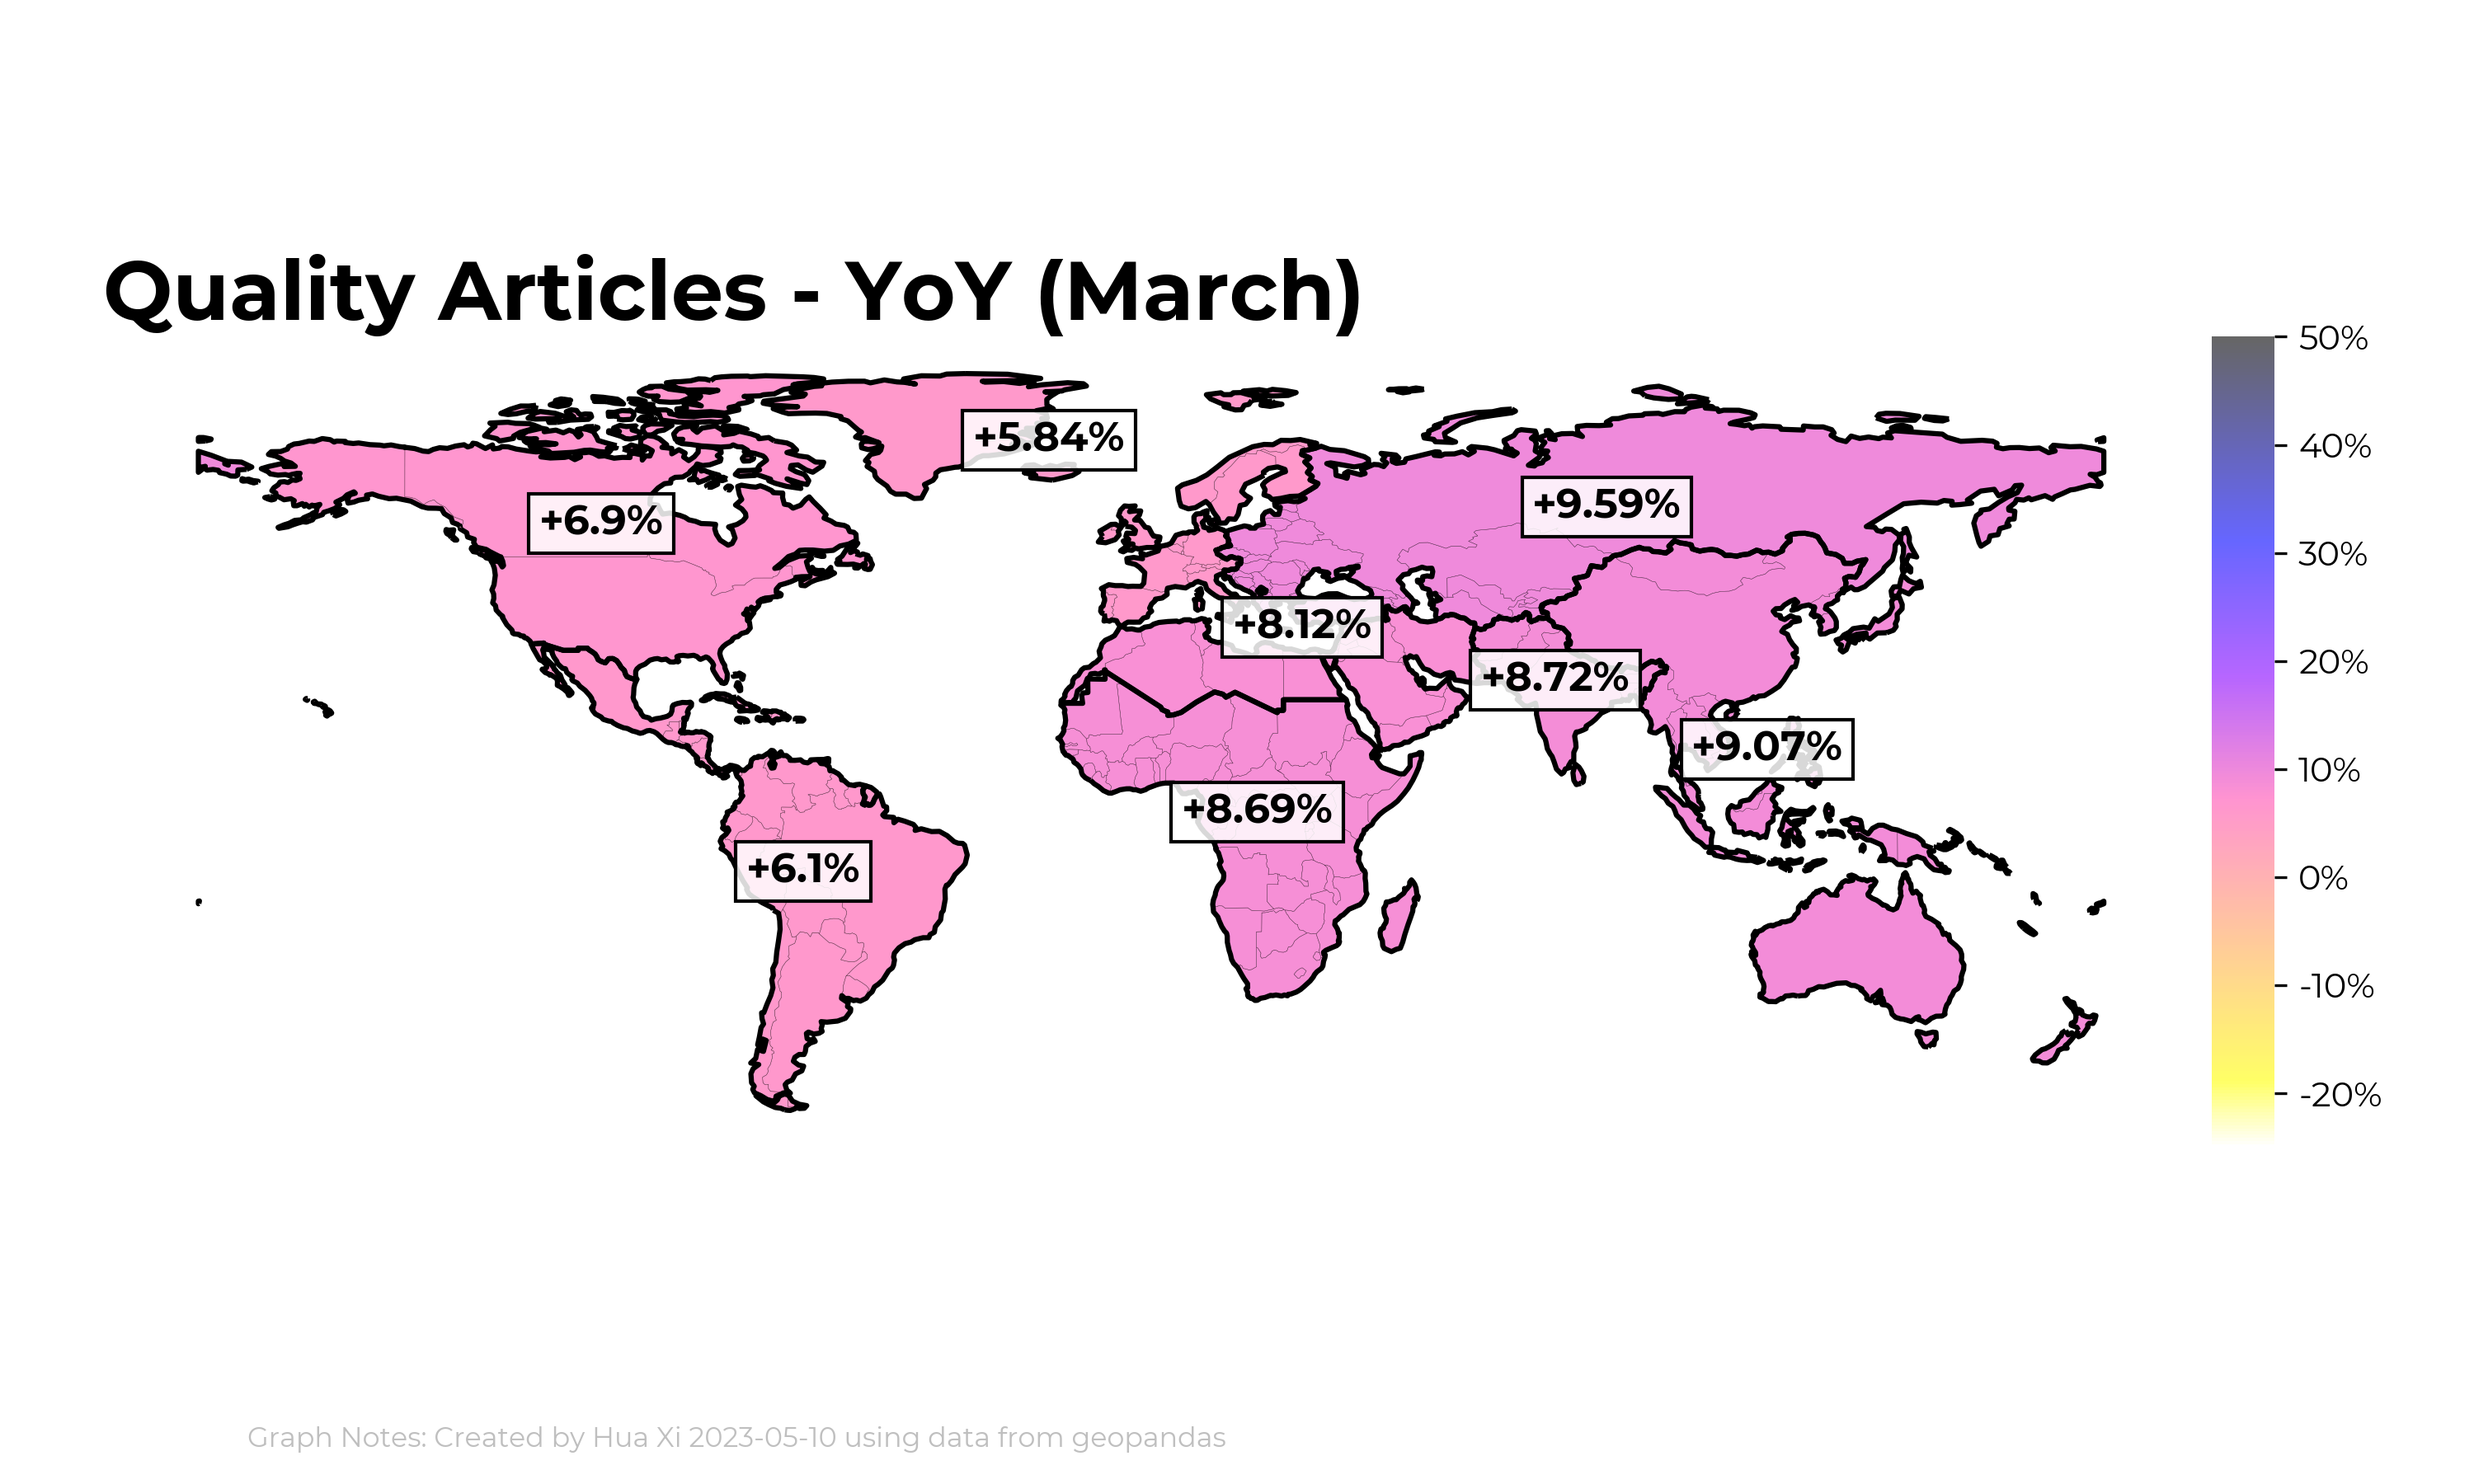
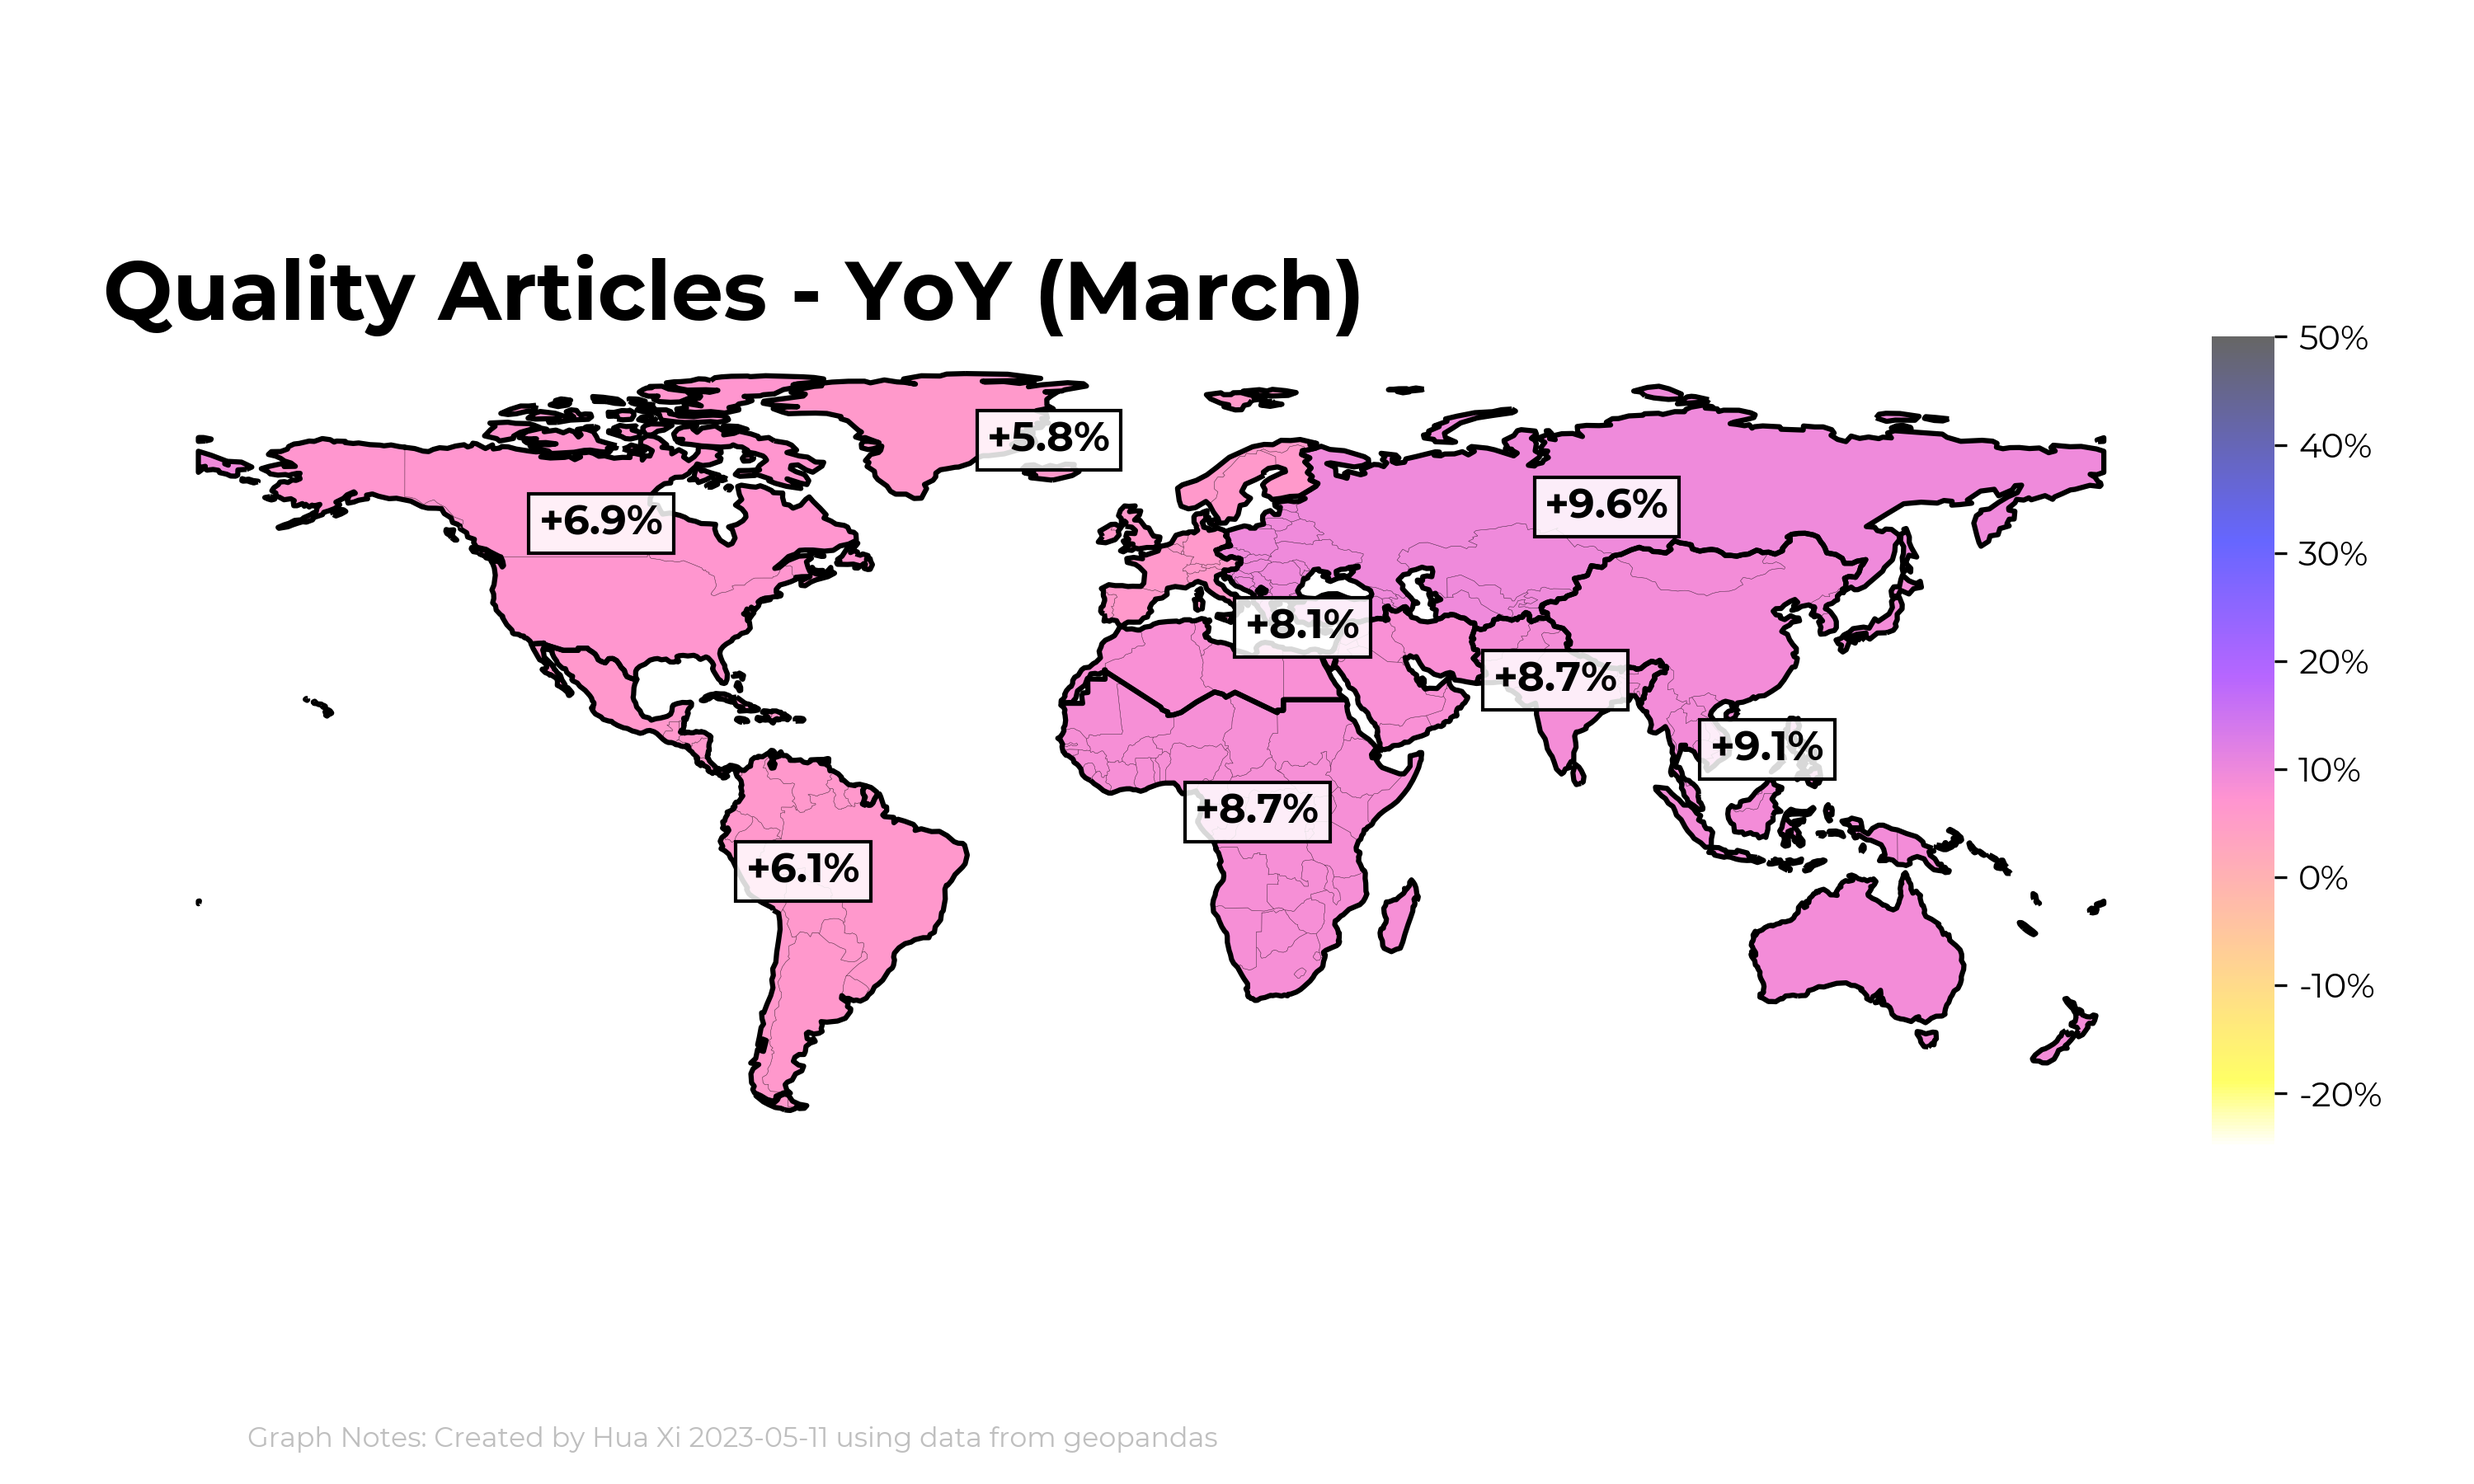
two sig figs

diff --git a/local/individual_chart_scripts/map.py b/local/individual_chart_scripts/map.py
@@ -2,18 +2,17 @@ import pandas as pd
 import datetime
 from datetime import timedelta
 from dateutil.relativedelta import relativedelta
+from math import log10, floor
 import matplotlib.pyplot as plt
 import matplotlib.font_manager
 import numpy as np
 import path
 import getopt
 import geopandas as gpd
-import shapefile as shp
 import shapely
 from shapely.ops import unary_union
 import shapely.ops
 import shapely.geometry
-import seaborn as sns
 import sys
 import os
 from os.path import dirname
@@ -49,10 +48,12 @@ def main(argv):
 	data_directory = dirname(dirname(script_directory))
 	current_month = datetime.datetime.today().month
 	#current_month = 3
+	
 	#---WMF REGION DATA---
 	#need to swap out for google docs version
 	#country code in iso-a3
 	wmf_region_ref = pd.read_csv(data_directory + '/data/wmf_region_ref.csv', sep=',')
+	
 	#---MAP (Borders) AND POPULATION DATA---
 	#country code in alpha-3
 	raw_map_df = gpd.read_file(gpd.datasets.get_path('naturalearth_lowres')) 
@@ -77,13 +78,12 @@ def main(argv):
 	#get representative centroid xys for each region
 	region_table['centroid'] = region_table['geometry'].apply(lambda g: g.centroid)
 	#region_table.to_csv("region_geometries.csv")
+	
 	#---READER DATA---
 	reader_df = pd.read_csv(data_directory + '/data/regional_reader_metrics.csv')
-	#convert to datetime
+	#clean
 	reader_df['month'] = pd.to_datetime(reader_df['month'])
-	#sort by datetime
 	reader_df = reader_df.sort_values(by='month')
-	#drop Unclass and Nan Values
 	reader_df = reader_df[~reader_df.region.isin(['UNCLASSED',np.nan])]
 	#get the last month and get table with just last months values
 	reader_lastmonth = reader_df.iloc[-1]['month'].month
@@ -92,14 +92,13 @@ def main(argv):
 	region_table = region_table.merge(reader_df_lastmonth, how='left', left_on="wmf_region", right_on="region").set_axis(region_table.index)
 	region_table = region_table.rename(columns={"region": "region_name"})
 	region_table = region_table.drop(columns=['month'])
+	
 	#---EDITOR DATA---
 	editor_df = pd.read_csv(data_directory + '/data/regional_editor_metrics.csv')
+	#clean
 	editor_df = editor_df.rename(columns={"sum(editors)": "monthly_editors","wmf_region":"region"})
-	#convert to datetime
 	editor_df['month'] = pd.to_datetime(editor_df['month'])
-	#sort by datetime
 	editor_df = editor_df.sort_values(by='month')
-	#drop UNCLASSED AND NaN cols
 	editor_df = editor_df[~editor_df.region.isin(['UNCLASSED',np.nan])]
 	#get the last month and get table with just last months values
 	editor_lastmonth = editor_df.iloc[-1]['month'].month
@@ -107,16 +106,14 @@ def main(argv):
 	#merge with wmf regions table
 	region_table = region_table.merge(editor_df_lastmonth, how='left', left_on="wmf_region", right_on="region").set_axis(region_table.index)
 	region_table = region_table.drop(columns=['month','region'])
+	
 	#---CONTENT DATA---
 	content_df = pd.read_csv(data_directory + '/data/content_quality.csv')
-	#rename
+	#clean
 	content_df = content_df.rename(columns={"time_bucket":"month"})
 	content_df = content_df.drop(columns=['standard_quality'])
-	#convert to datetime
 	content_df['month'] = pd.to_datetime(content_df['month'])
-	#sort by datetime
 	content_df = content_df.sort_values(by='month')
-	#drop Unclass and Nan Values
 	content_df = content_df[~content_df.region.isin(['UNCLASSED',np.nan])]
 	#get the last month and get table with just last months values
 	content_lastmonth = content_df.iloc[-1]['month'].month
@@ -124,19 +121,38 @@ def main(argv):
 	#merge with wmf regions table
 	region_table = region_table.merge(content_df_lastmonth, how='left', left_on="wmf_region", right_on="region").set_axis(region_table.index)
 	region_table = region_table.drop(columns=['month','region'])
+	
+	#---VALUES---
+	region_table['pop_label'] = region_table['sum_pop_est'].apply(lambda v: simple_num_format(v))
+	region_table['ud_label'] = region_table['unique_devices'].apply(lambda v: simple_num_format(v))
+	region_table['ed_label'] = region_table['monthly_editors'].apply(lambda v: simple_num_format(v))
+	region_table['sqc_label'] = region_table['standard_quality_count'].apply(lambda v: simple_num_format(v))
+
 	#---PERCENT OF TOTAL---
-	def format_perc(x):
-		return "{0:+g}%".format(float("{:.2f}".format(x)))
-	def format_perc_nosign(x):
-		return "{:.2f}%".format(x)
+	def format_perc(x, sig=2, sign=True):
+		#round to two significant digits and add sign and eliminate trailing zeroes
+		if sign:
+			rounded = "{0:+.2g}".format(round(x, sig-int(floor(log10(abs(x))))-1))
+			#add in trailing zero if single digit number and add in percentage sign
+			if len(rounded) == 2:
+				return rounded + ".0%"
+			else:
+				return rounded + "%"
+		else:
+			rounded = "{0:.2g}".format(round(x, sig-int(floor(log10(abs(x))))-1))
+			if len(rounded) == 1:
+				return rounded + ".0%"
+			else:
+				return rounded + "%"
 	region_table['pop_perc'] = (region_table['sum_pop_est'] / region_table['sum_pop_est'].sum()) * 100
-	region_table['pop_perc_label'] = region_table["pop_perc"].map(format_perc_nosign)
+	region_table['pop_perc_label'] = region_table["pop_perc"].apply(format_perc, sign = False)
 	region_table['ud_perc'] = ((region_table['unique_devices'] / region_table['unique_devices'].sum()) * 100)
-	region_table['ud_perc_label'] = region_table['ud_perc'].map(format_perc_nosign)
+	region_table['ud_perc_label'] = region_table['ud_perc'].apply(format_perc, sign = False)
 	region_table['ed_perc'] = ((region_table['monthly_editors'] / region_table['monthly_editors'].sum()) * 100)
-	region_table['ed_perc_label'] = region_table['ed_perc'].map(format_perc_nosign)
+	region_table['ed_perc_label'] = region_table['ed_perc'].apply(format_perc, sign = False)
 	region_table['sqc_perc'] = ((region_table['standard_quality_count'] / region_table['standard_quality_count'].sum()) * 100)
-	region_table['sqc_perc_label'] = region_table['sqc_perc'].map(format_perc_nosign)
+	region_table['sqc_perc_label'] = region_table['sqc_perc'].apply(format_perc, sign = False)
+	
 	#---CHANGE OVER TIME---
 	def change_over_time(var, change_var_name, data_df, region_table_local, days_delta = 0, months_delta=0, years_delta = 0):
 		#get data for last month
@@ -178,10 +194,12 @@ def main(argv):
 	region_table = change_over_time("value", "ud_3morolling_yoy", reader_rolling3mo, region_table, years_delta=1)
 	#editor
 	region_table = change_over_time("value", "ed_3morolling_yoy", editor_rolling3mo, region_table, years_delta=1)
+	
 	#---REMERGE W MAP_DF
 	#merge pivot table with map data again — for generating colorbar
 	#need to drop the geometry data from region_table or you will end up with a regular dataframe instead of a geoseries dataframe
 	map_df = map_df.merge(region_table.drop(columns=['geometry','centroid']), how='left', left_on="wmf_region", right_on="wmf_region")
+	
 	#---ADDITIONAL LABELS---
 	#manually adjust positions (very complicated to do programmatically in matplotlib and not necessary)
 	region_table["region_label_positions"] = region_table['centroid']
@@ -189,12 +207,7 @@ def main(argv):
 	region_table.at['Middle East & North Africa','centroid'] = shapely.Point(mena.x,mena.y + 8)
 	nwe = region_table.at['Northern & Western Europe','centroid']
 	region_table.at['Northern & Western Europe','centroid'] = shapely.Point(nwe.x,nwe.y + 5)
-	#absolute value labels
-	region_table['pop_label'] = region_table['sum_pop_est'].apply(lambda v: simple_num_format(v))
-	region_table['ud_label'] = region_table['unique_devices'].apply(lambda v: simple_num_format(v))
-	region_table['ed_label'] = region_table['monthly_editors'].apply(lambda v: simple_num_format(v))
-	region_table['sqc_label'] = region_table['standard_quality_count'].apply(lambda v: simple_num_format(v))
-	
+		
 
 	#---MAKE CHART---
 	#---LABELS---
@@ -271,7 +284,7 @@ def main(argv):
 	chart.finalize_plot(save_file_name,display=True)
 
 	#---EDITOR METRICS - EDITORS YOY of 3MO ROLLING Average---
-	chart = Wikimap(map_df, fignum=6, title = 'Active Monthly Editors - YoY Change of 3 Month Rolling Average', data_source="geopandas", month=reader_lastmonth)
+	chart = Wikimap(map_df, fignum=6, title = 'Active Monthly Editors - YoY Change of 3 Month Rolling Average', data_source="geopandas", month=editor_lastmonth)
 	chart.plot_wcolorbar(col = 'ed_3morolling_yoy', setperc=True)
 	chart.plot_regions(region_table,'ed_3morolling_yoy_label')
 	chart.format_map(cbar_perc=True)
@@ -288,7 +301,7 @@ def main(argv):
 	chart.finalize_plot(save_file_name,display=True)
 	'''
 	#---CONTENT METRICS - COUNT---
-	chart = Wikimap(map_df, fignum=10, title = 'Quality Articles', data_source="geopandas", month=reader_lastmonth)
+	chart = Wikimap(map_df, fignum=10, title = 'Quality Articles', data_source="geopandas", month=content_lastmonth)
 	chart.plot_wcolorbar(col = 'standard_quality_count')
 	chart.plot_regions(region_table,'sqc_label')
 	chart.format_map()
@@ -296,7 +309,7 @@ def main(argv):
 	chart.finalize_plot(save_file_name,display=True)
 
 	#---CONTENT METRICS - PERCENT TOTAL---
-	chart = Wikimap(map_df, fignum=11, title = 'Quality Articles - Percent of Total', data_source="geopandas", month=reader_lastmonth)
+	chart = Wikimap(map_df, fignum=11, title = 'Quality Articles - Percent of Total', data_source="geopandas", month=content_lastmonth)
 	chart.plot_wcolorbar(col = 'sqc_perc', setperc=True)
 	chart.plot_regions(region_table,'sqc_perc_label')
 	chart.format_map(cbar_perc=True)
@@ -304,7 +317,7 @@ def main(argv):
 	chart.finalize_plot(save_file_name,display=True)
 
 	#---CONTENT METRICS - YOY of 3MO ROLLING Average---
-	chart = Wikimap(map_df, fignum=12, title = 'Quality Articles - YoY', data_source="geopandas", month=reader_lastmonth)
+	chart = Wikimap(map_df, fignum=12, title = 'Quality Articles - YoY', data_source="geopandas", month=content_lastmonth)
 	chart.plot_wcolorbar(col = 'sqc_yoy', setperc=True)
 	chart.plot_regions(region_table, 'sqc_yoy_label')
 	chart.format_map(cbar_perc=True)

diff --git a/local/wikicharts.py b/local/wikicharts.py
@@ -608,25 +608,6 @@ class Wikichart:
 		maxrange_numticks = self.ynumticks[maxrange_index]
 		return maxrange, maxrange_numticks
 
-	def expand_yrange(self):
-		'''
-		print("initial yrange " + str(axis.get_ylim()))
-		print("initial tick num " + str(len(axis.get_yticklabels())))
-		current_ticks = axis.get_yticklabels()
-		current_tick_range = current_ticks[-1].get_position()[1] - current_ticks[0].get_position()[1]
-		print("initial tick range " + str(current_tick_range))
-		#expands the axis limits via the 2/3rds rule
-		#expanding the ylim via set_ylim will recalibrate ticks automatically
-		current_ylim = axis.get_ylim()
-		current_ylim_range = current_ylim[1] - current_ylim[0]
-		print(current_ylim_range)
-		current_ticknum = len(axis.get_yticklabels())
-		new_ymin = current_ylim[0] - current_ylim_range / 4
-		new_ymax = current_ylim[1] + current_ylim_range / 4
-		axis.set_ylim([new_ymin, new_ymax])
-		print("expanded yrange " + str(axis.get_ylim()))
-		print("expanded tick num " + str(len(axis.get_yticklabels())))
-		'''
 class Wikimap():
 	#initialize chart object
 	def __init__(self,dataset, width=10, height=6, fignum=0, title="", author=parameters['author'],data_source="N/A",titlepad=0, month=0, display_month=True):
@@ -649,7 +630,7 @@ class Wikimap():
 		today = date.today()
 		plt.figtext(0.1, 0.025, "Graph Notes: Created by " + str(author) + " " + str(today) + " using data from " + str(data_source), family=style_parameters['font'],fontsize=8, color= wmf_colors['black25'])
 
-
+	#create a map chart with a colorscale legend
 	def plot_wcolorbar(self, col = "pop_est", custom_cmap="gnuplot2_r", plot_alpha=0.6, setperc = False):
 		#set min and max for colorbar
 		if setperc == True:
@@ -670,6 +651,7 @@ class Wikimap():
 		#plot map
 		self.df.plot(column=col, cmap=custom_cmap, vmin=self.vmin, vmax=self.vmax, linewidth=0.1, ax=self.ax, edgecolor='black', alpha=plot_alpha)
 
+	#plot the region outlines and apply labels in label_col
 	def plot_regions(self, region_table, label_col, fontsize=12):
 		for region in wmf_regions:
 			region_geo = region_table.loc[region,'geometry']
